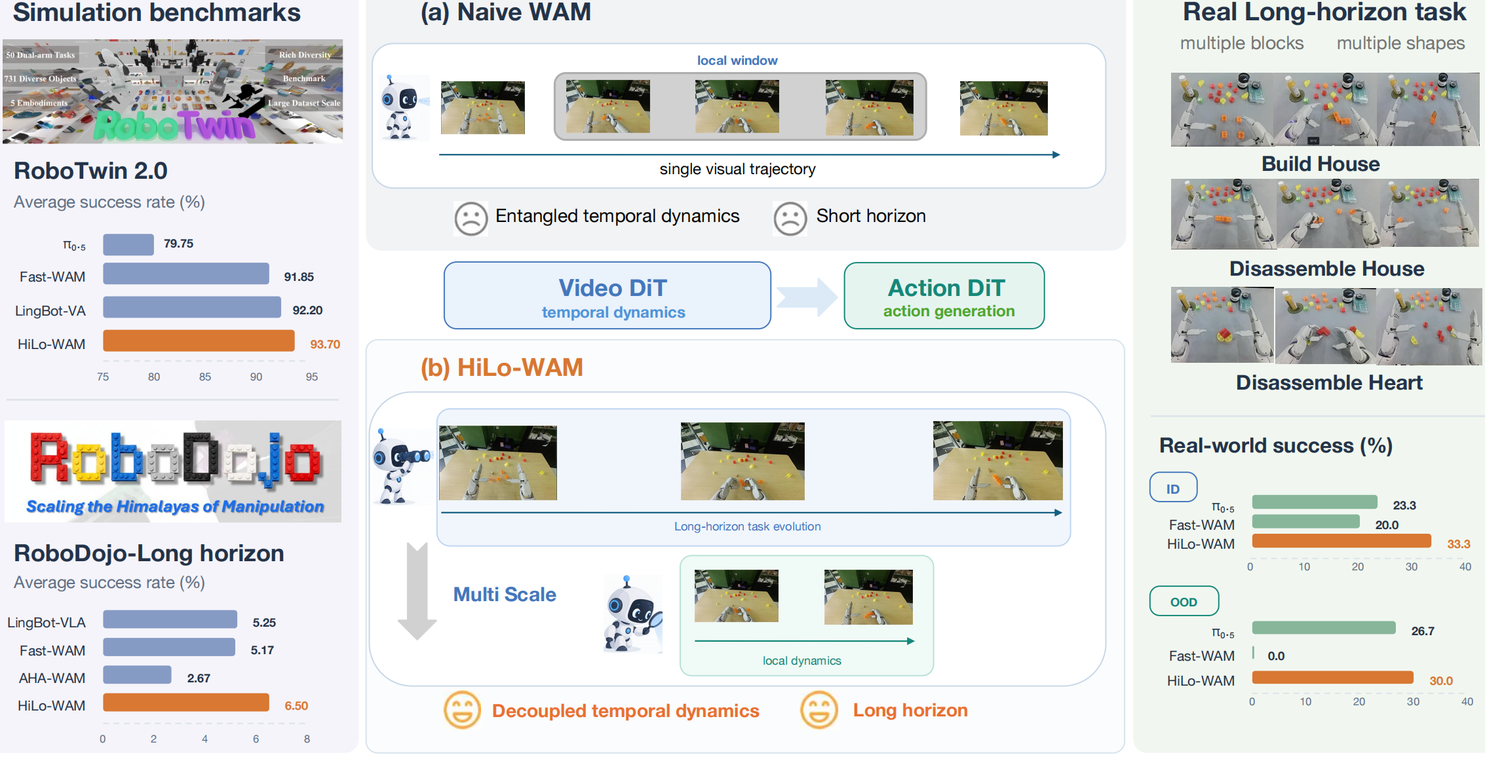
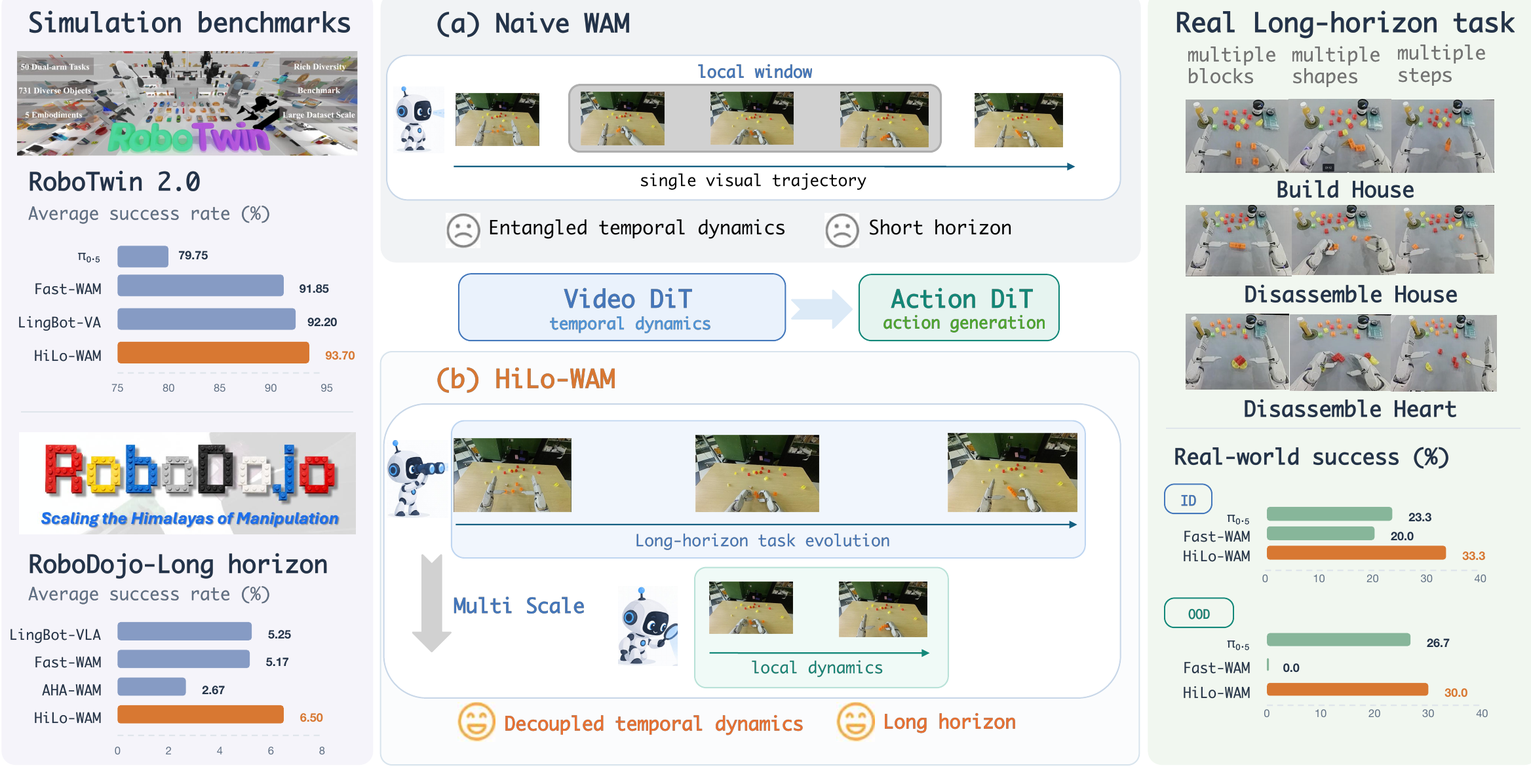
update infer

diff --git a/index.html b/index.html
@@ -10,9 +10,9 @@
   <meta property="og:description" content="Sparse task evolution and dense local dynamics jointly guide robot action generation.">
   <meta property="og:type" content="website">
   <title>HiLo-WAM | Long-Horizon Task Evolution and Local Dynamics</title>
-  <link rel="icon" href="static/images/favicon.svg">
-  <link rel="stylesheet" href="static/css/index.css">
-  <script src="static/js/index.js" defer></script>
+  <link rel="icon" href="static/images/favicon.svg?v=df3d6f5c767d66ca">
+  <link rel="stylesheet" href="static/css/index.css?v=68568327da32b6b1">
+  <script src="static/js/index.js?v=57dbd54a7239b131" defer></script>
 </head>
 <body>
 <a class="skip-link" href="#main">Skip to content</a>
@@ -30,26 +30,26 @@
   <div class="hero-actions"><a class="button primary" href="#real-videos">Robot demos</a><a class="button" href="#method">Method</a><!-- RELEASE_LINK --></div>
 </section>
 <section id="overview" class="overview" aria-label="Overview">
-  <p class="tldr"><strong>TL;DR</strong> HiLo-WAM decouples <strong>long-horizon task evolution</strong> from <strong>local visual dynamics</strong>. A sparse stream provides historical context and coarse future evolution; a dense stream captures fine-grained robot–object interactions. Together, they guide action generation.</p>
+  <p class="tldr"><strong>TL;DR</strong> HiLo-WAM decouples <strong>long-horizon task evolution</strong> from <strong>local visual dynamics</strong>. A sparse stream provides historical context and coarse future evolution; a dense stream captures fine-grained robot–object interactions. Together, they guide action generation; progressive inference reduces redundant computation.</p>
   <figure class="paper-figure teaser">
-<a href="static/figures/teaser.webp" data-lightbox aria-label="Enlarge: Overview of two visual streams, simulation benchmarks, and real-world manipulation"><img src="static/figures/teaser.webp" width="2266" height="1156" alt="Overview of two visual streams, simulation benchmarks, and real-world manipulation" loading="lazy" decoding="async"><span class="zoom-hint" aria-hidden="true">↗</span></a>
+<a href="static/figures/teaser.webp?v=840d4222c5db55aa" data-lightbox aria-label="Enlarge: Overview of two visual streams, simulation benchmarks, and real-world manipulation"><img src="static/figures/teaser.webp?v=840d4222c5db55aa" width="2336" height="1185" alt="Overview of two visual streams, simulation benchmarks, and real-world manipulation" loading="lazy" decoding="async"><span class="zoom-hint" aria-hidden="true">↗</span></a>
 <figcaption>Sparse task evolution + dense local dynamics → coordinated action generation.</figcaption></figure>
-  <div class="metrics"><p><strong>93.70%</strong><span>RoboTwin 2.0 success</span></p><p><strong>17.43</strong><span>RoboDojo progress score</span></p><p><strong>30%</strong><span>Real-robot OOD success</span></p></div>
+  <div class="metrics"><p><strong>93.70%</strong><span>RoboTwin 2.0 success</span></p><p><strong>17.43</strong><span>RoboDojo progress score</span></p><p><strong>2.93×</strong><span>Progressive inference speedup</span></p></div>
 </section>
 <section id="method" class="section">
   <h2>Two temporal scales, one coordinated policy</h2>
-  <p>HiLo-WAM decouples <strong>long-horizon task evolution</strong> and <strong>local visual dynamics</strong> within a shared Video DiT, coupled to an Action DiT. Three design choices make this decomposition useful for control.</p>
+  <p>HiLo-WAM decouples <strong>long-horizon task evolution</strong> and <strong>local visual dynamics</strong> within a shared Video DiT, coupled to an Action DiT. Multi-scale temporal modeling and structured cross-stream interaction coordinate both streams, while progressive inference reduces unnecessary computation.</p>
   <figure class="paper-figure framework">
-<a href="static/figures/framework.webp" data-lightbox aria-label="Enlarge: HiLo-WAM architecture and progressive stream-wise inference"><img src="static/figures/framework.webp" width="1826" height="1036" alt="HiLo-WAM architecture and progressive stream-wise inference" loading="lazy" decoding="async"><span class="zoom-hint" aria-hidden="true">↗</span></a>
-<figcaption>A unified dual-DiT architecture with two visual streams and progressive stream-wise inference.</figcaption></figure>
+<a href="static/figures/framework.webp?v=cd5c065762bef6aa" data-lightbox aria-label="Enlarge: HiLo-WAM multi-scale dual-DiT architecture"><img src="static/figures/framework.webp?v=cd5c065762bef6aa" width="2307" height="1321" alt="HiLo-WAM multi-scale dual-DiT architecture" loading="lazy" decoding="async"><span class="zoom-hint" aria-hidden="true">↗</span></a>
+<figcaption>Sparse long-horizon and dense local visual streams share a Video DiT and jointly guide the Action DiT.</figcaption></figure>
   <div class="contribution-grid">
-    <article><span class="contribution-number">01</span><h3>Decouple temporal roles</h3><p>Sparse history and future keyframes capture task evolution; dense short-horizon frames model fine-grained robot–object interactions.</p></article>
-    <article><span class="contribution-number">02</span><h3>Coordinate the streams</h3><p>Structured cross-stream attention lets historical context and near-future latents guide local dynamics and actions, while distant futures remain indirect.</p></article>
-    <article><span class="contribution-number">03</span><h3>Reuse visual computation</h3><p>Progressive stream-wise inference caches completed visual streams while actions continue to refine, reducing inference latency by <strong>27.5%</strong>.</p></article>
+    <article><span class="contribution-number">01</span><h3>Complementary temporal modeling</h3><p>Sparse history and future evolution capture long-horizon task progression; the dense local stream models fine-grained robot–object interactions for action generation.</p></article>
+    <article><span class="contribution-number">02</span><h3>Coordinated, efficient inference</h3><p>Structured cross-stream attention coordinates temporal scales. Partial denoising, joint denoising, and dynamic skipping reduce redundant computation.</p></article>
+    <article><span class="contribution-number">03</span><h3>Strong manipulation performance</h3><p>Simulation and real-robot evaluations validate complementary temporal information, the coverage–resolution trade-off, and <strong>2.93× faster inference</strong>.</p></article>
   </div>
   <details class="method-details"><summary>Attention mask, notation, and training details</summary><div class="attention-layout">
     <figure class="paper-figure ">
-<a href="static/figures/attention.webp" data-lightbox aria-label="Enlarge: Structured cross-stream attention mask"><img src="static/figures/attention.webp" width="498" height="514" alt="Structured cross-stream attention mask" loading="lazy" decoding="async"><span class="zoom-hint" aria-hidden="true">↗</span></a>
+<a href="static/figures/attention.webp?v=19dd354684c5cccf" data-lightbox aria-label="Enlarge: Structured cross-stream attention mask"><img src="static/figures/attention.webp?v=19dd354684c5cccf" width="659" height="667" alt="Structured cross-stream attention mask" loading="lazy" decoding="async"><span class="zoom-hint" aria-hidden="true">↗</span></a>
 <figcaption>Q: queries (rows). K: keys (columns). Colored cells allow attention.</figcaption></figure>
     <div><h3>Structured cross-stream attention</h3>
       <p>The long-horizon stream attends bidirectionally within itself. Local and action tokens access historical context and the nearest coarse future latent; distant future latents provide <strong>indirect guidance only</strong>. Actions also attend to local dynamics and robot state. Visual tokens do not attend to actions.</p>
@@ -63,7 +63,7 @@
       </dl>
     </div>
   </div>
-<div class="details-body"><p>Joint flow matching uses independently sampled flow times for the long-horizon, local, and action streams. Historical observations, the current observation, and robot state remain clean conditions.</p><p><strong>Reported configuration:</strong> Wan2.2-5B video backbone; stride <i>k</i> = 4; 8 historical and 8 future keyframes; video horizon <i>T</i> = 32; action horizon <i>H</i> = 32. Inference uses 5 / 5 / 10 steps for the long-horizon / local / action streams, within the general schedule n<sub>H</sub> ≤ n<sub>L</sub> ≤ n<sub>A</sub>.</p></div></details>
+<div class="details-body"><p>Joint flow matching uses independently sampled flow times for the long-horizon, local, and action streams. Historical observations, the current observation, and robot state remain clean conditions.</p><p><strong>Reported configuration:</strong> Wan2.2-5B video backbone; stride <i>k</i> = 4; 8 historical and 8 future keyframes; video horizon <i>T</i> = 32; action horizon <i>H</i> = 32. Progressive inference uses 5 / 5 / 10 denoising budgets for long-horizon / local / action streams, starts the streams jointly, and skips redundant DiT evaluations when consecutive velocity predictions are sufficiently similar. The action stream retains its full 10-step schedule.</p></div></details>
 </section>
 <section id="results" class="section" data-tabs>
   <h2>Experimental results</h2>
@@ -71,12 +71,12 @@
   <div class="section-tabs" data-tab-list aria-label="Experimental evidence" hidden>
     <button type="button" data-tab="benchmarks" id="tab-benchmarks">Simulation benchmarks</button>
     <button type="button" data-tab="analysis" id="tab-analysis">Ablations &amp; visual analysis</button>
-    <button type="button" data-tab="efficiency" id="tab-efficiency">Inference efficiency</button>
+    <button type="button" data-tab="efficiency" id="tab-efficiency">Progressive inference</button>
   </div>
   <div id="benchmarks" data-tab-panel>
     <div class="two-column benchmarks"><article><h3>RoboTwin 2.0</h3><div class="table-scroll" tabindex="0" role="region" aria-label="RoboTwin 2.0 results"><table class=""><caption>RoboTwin 2.0 · Success rate (%)</caption><thead><tr><th scope="col">Method</th><th scope="col">Embodied<br>pretraining</th><th scope="col">Clean</th><th scope="col">Rand.</th><th scope="col">Avg.</th></tr></thead><tbody><tr><th scope="row">π₀</th><td>Yes</td><td>65.90</td><td>58.40</td><td>62.15</td></tr><tr><th scope="row">X-VLA</th><td>Yes</td><td>72.90</td><td>72.80</td><td>72.85</td></tr><tr><th scope="row">π₀.₅</th><td>Yes</td><td>82.70</td><td>76.80</td><td>79.75</td></tr><tr><th scope="row">StarVLA</th><td>No</td><td>88.20</td><td>88.30</td><td>88.25</td></tr><tr><th scope="row">ABot-M0</th><td>Yes</td><td>81.20</td><td>80.40</td><td>80.80</td></tr><tr><th scope="row">LingBot-VLA</th><td>Yes</td><td>86.50</td><td>85.30</td><td>85.90</td></tr><tr><th scope="row">JEPA-VLA</th><td>No</td><td>73.50</td><td>—</td><td>—</td></tr><tr><th scope="row">Motus</th><td>Yes</td><td>88.70</td><td>87.00</td><td>87.85</td></tr><tr><th scope="row">LingBot-VA</th><td>Yes</td><td>92.90</td><td>91.50</td><td>92.20</td></tr><tr><th scope="row">Fast-WAM</th><td>No</td><td>91.90</td><td>91.80</td><td>91.85</td></tr><tr><th scope="row">Being-H0.7</th><td>Yes</td><td>90.20</td><td>89.60</td><td>89.90</td></tr><tr><th scope="row">AHA-WAM</th><td>No</td><td>93.40</td><td>92.20</td><td>92.80</td></tr><tr class="ours"><th scope="row">HiLo-WAM</th><td>No</td><td>93.87</td><td>93.52</td><td>93.70</td></tr></tbody></table></div><p class="note">50 bimanual tasks; 50 trials per task in each setting. “Embodied pretraining” refers to robot/action pretraining.</p></article><article><h3>RoboDojo</h3><div class="table-scroll" tabindex="0" role="region" aria-label="RoboDojo results"><table class=""><caption>RoboDojo · Long-horizon evaluation</caption><thead><tr><th scope="col">Method</th><th scope="col">Score ↑</th><th scope="col">Success (%) ↑</th></tr></thead><tbody><tr><th scope="row">OpenVLA-OFT</th><td>0.70</td><td>0.00</td></tr><tr><th scope="row">RDT</th><td>1.13</td><td>0.00</td></tr><tr><th scope="row">LDA-1B</th><td>1.98</td><td>0.08</td></tr><tr><th scope="row">H-RDT</th><td>2.23</td><td>0.17</td></tr><tr><th scope="row">π₀</th><td>6.19</td><td>2.00</td></tr><tr><th scope="row">GROOT-N1.7</th><td>8.30</td><td>3.58</td></tr><tr><th scope="row">LingBot-VLA</th><td>10.89</td><td>5.25</td></tr><tr><th scope="row">StarVLA</th><td>14.15</td><td>6.50</td></tr><tr><th scope="row">StarVLA-OFT</th><td>14.28</td><td>6.17</td></tr><tr><th scope="row">AHA-WAM</th><td>8.61</td><td>2.67</td></tr><tr><th scope="row">Fast-WAM</th><td>9.14</td><td>5.17</td></tr><tr class="ours"><th scope="row">HiLo-WAM</th><td>17.43</td><td>6.50</td></tr></tbody></table></div><p class="note">8 long-horizon tasks; 50 trials per task. Progress measures partial completion. The 6.50% full-task success rate ties the highest result among these comparisons.</p></article></div>
   <details><summary>Qualitative rollouts: target consistency and final alignment</summary><div class="details-body"><figure class="paper-figure ">
-<a href="static/figures/performance.webp" data-lightbox aria-label="Enlarge: Fast-WAM and HiLo-WAM rollouts for bottle disposal, mug hanging, and house assembly"><img src="static/figures/performance.webp" width="2202" height="1371" alt="Fast-WAM and HiLo-WAM rollouts for bottle disposal, mug hanging, and house assembly" loading="lazy" decoding="async"><span class="zoom-hint" aria-hidden="true">↗</span></a>
+<a href="static/figures/performance.webp?v=a43ced5c42e7e29c" data-lightbox aria-label="Enlarge: Fast-WAM and HiLo-WAM rollouts for bottle disposal, mug hanging, and house assembly"><img src="static/figures/performance.webp?v=a43ced5c42e7e29c" width="2054" height="1402" alt="Fast-WAM and HiLo-WAM rollouts for bottle disposal, mug hanging, and house assembly" loading="lazy" decoding="async"><span class="zoom-hint" aria-hidden="true">↗</span></a>
 <figcaption>Example rollouts show more consistent target selection and precise final alignment with HiLo-WAM.</figcaption></figure></div></details>
 
   </div>
@@ -90,48 +90,64 @@
         <p class="axis-note">Zoomed scale: 90–94%; bars start at 90%.</p>
       </div>
       <figure class="paper-figure attention-evidence">
-<a href="static/figures/attention_vis.webp" data-lightbox aria-label="Enlarge: Cross-stream attention on Stack Bowls Three"><img src="static/figures/attention_vis.webp" width="1494" height="1046" alt="Cross-stream attention on Stack Bowls Three" loading="lazy" decoding="async"><span class="zoom-hint" aria-hidden="true">↗</span></a>
+<a href="static/figures/attention_vis.webp?v=f676b5a4375fe494" data-lightbox aria-label="Enlarge: Cross-stream attention on Stack Bowls Three"><img src="static/figures/attention_vis.webp?v=f676b5a4375fe494" width="1520" height="1073" alt="Cross-stream attention on Stack Bowls Three" loading="lazy" decoding="async"><span class="zoom-hint" aria-hidden="true">↗</span></a>
 <figcaption><strong>Complementary attention.</strong> Long-horizon context tracks robot and object positions; local dynamics captures fine-grained interactions.</figcaption></figure>
     </div>
     <p class="note ablation-footnote">¹ History remains inside the long-horizon stream for future prediction; only direct access from local/action tokens is masked.</p>
     <div class="supporting-evidence">
       <figure class="paper-figure ">
-<a href="static/figures/video_predict.webp" data-lightbox aria-label="Enlarge: Ground truth and Place Can Basket predictions with and without long-horizon guidance"><img src="static/figures/video_predict.webp" width="1495" height="562" alt="Ground truth and Place Can Basket predictions with and without long-horizon guidance" loading="lazy" decoding="async"><span class="zoom-hint" aria-hidden="true">↗</span></a>
+<a href="static/figures/video_predict.webp?v=e9b1963449c3cb45" data-lightbox aria-label="Enlarge: Ground truth and Place Can Basket predictions with and without long-horizon guidance"><img src="static/figures/video_predict.webp?v=e9b1963449c3cb45" width="1522" height="605" alt="Ground truth and Place Can Basket predictions with and without long-horizon guidance" loading="lazy" decoding="async"><span class="zoom-hint" aria-hidden="true">↗</span></a>
 <figcaption><strong>Task-directed prediction.</strong> Long-horizon grasp-to-place evolution guides the local grasp on <em>Place Can Basket</em>.</figcaption></figure>
       <figure class="paper-figure ">
-<a href="static/figures/temporal_scale.webp" data-lightbox aria-label="Enlarge: RoboTwin success rates at strides 1, 2, 4, and 8"><img src="static/figures/temporal_scale.webp" width="1396" height="954" alt="RoboTwin success rates at strides 1, 2, 4, and 8" loading="lazy" decoding="async"><span class="zoom-hint" aria-hidden="true">↗</span></a>
+<a href="static/figures/temporal_scale.webp?v=840ca08cf98324ed" data-lightbox aria-label="Enlarge: RoboTwin success rates at strides 1, 2, 4, and 8"><img src="static/figures/temporal_scale.webp?v=840ca08cf98324ed" width="2354" height="1607" alt="RoboTwin success rates at strides 1, 2, 4, and 8" loading="lazy" decoding="async"><span class="zoom-hint" aria-hidden="true">↗</span></a>
 <figcaption><strong>Coverage–resolution balance.</strong> At a fixed token budget, stride k = 4 performs best (93.7%).</figcaption></figure>
     </div>
   </div>
   <div id="efficiency" data-tab-panel>
-    <div class="efficiency-summary"><div><h3>Less visual computation, comparable success</h3><p>Coordinated denoising reduces latency by <strong>27.5%</strong> versus sequential inference with the <strong>same per-stream step budgets</strong>; success remains comparable (93.64% → 93.70%).</p><p class="note">Completed visual features are cached while action refinement continues. Real-Time Chunking further overlaps inference with execution on the robot.</p></div><div><div class="table-scroll" tabindex="0" role="region" aria-label="Action-chunk inference · RoboTwin 2.0"><table><caption>Action-chunk inference · RoboTwin 2.0</caption><thead><tr><th scope="col">Method</th><th scope="col">Latency (ms) ↓</th><th scope="col">Frequency (Hz) ↑</th><th scope="col">SR (%) ↑</th></tr></thead><tbody><tr><th scope="row">π₀.₅</th><td>110</td><td>9.09</td><td>79.75</td></tr><tr><th scope="row">Fast-WAM</th><td>182</td><td>5.49</td><td>91.85</td></tr><tr><th scope="row">HiLo-WAM w/o Prog.</th><td>404</td><td>2.48</td><td>93.64</td></tr><tr class="ours"><th scope="row">HiLo-WAM</th><td>293</td><td>3.41</td><td>93.70</td></tr></tbody></table></div></div></div>
-    <p class="note">End-to-end action-chunk latency includes the video VAE and both DiTs, with prompt embeddings reused. HiLo-WAM remains slower than Fast-WAM.</p>
+    <div class="evidence-heading"><h3>2.93× faster inference, with improved success</h3><p>Three complementary strategies reduce action-chunk latency from <strong>1114.46 to 380.02 ms</strong>, while RoboTwin 2.0 success improves from <strong>93.54% to 93.70%</strong>.</p></div>
+    <div class="progressive-layout">
+      <ol class="inference-strategies">
+        <li><strong>Partial denoising</strong><p>Stop each visual stream at its budget and cache its features; keep the full action denoising schedule.</p></li>
+        <li><strong>Joint denoising</strong><p>Start all streams together so visual and action representations interact at aligned denoising stages.</p></li>
+        <li><strong>Dynamic skipping</strong><p>Reuse sufficiently similar consecutive velocity predictions to skip redundant DiT evaluations.</p></li>
+      </ol>
+      <div class="latency-chart" role="group" aria-label="Progressive inference latency ablation, milliseconds; lower is better">
+        <p class="chart-label">Action-chunk latency · Lower is better</p>
+        <ol class="latency-bars"><li class="latency-row "><div class="bar-label"><span>Baseline</span><strong>1114.46 <small>ms</small></strong></div><div class="bar-track" aria-hidden="true"><span style="--bar-width:92.8717%"></span></div></li><li class="latency-row "><div class="bar-label"><span>+ Partial denoising</span><strong>723.65 <small>ms</small></strong></div><div class="bar-track" aria-hidden="true"><span style="--bar-width:60.3042%"></span></div></li><li class="latency-row "><div class="bar-label"><span>+ Joint denoising</span><strong>619.85 <small>ms</small></strong></div><div class="bar-track" aria-hidden="true"><span style="--bar-width:51.6542%"></span></div></li><li class="latency-row best"><div class="bar-label"><span>+ Dynamic skipping</span><strong>380.02 <small>ms</small></strong></div><div class="bar-track" aria-hidden="true"><span style="--bar-width:31.6683%"></span></div></li></ol>
+        <div class="bar-axis" aria-hidden="true"><span>0</span><span>300</span><span>600</span><span>900</span><span>1200 ms</span></div>
+      </div>
+    </div>
+    <div class="table-scroll" tabindex="0" role="region" aria-label="Progressive inference configurations and results"><table class="progressive-table"><caption>RoboTwin 2.0 · Cumulative inference ablations</caption><thead><tr><th scope="col">Configuration</th><th scope="col">n<sub>H</sub> / n<sub>L</sub></th><th scope="col">Joint</th><th scope="col">Skipping</th><th scope="col">Latency (ms) ↓</th><th scope="col">Speedup ↑</th><th scope="col">SR (%) ↑</th></tr></thead><tbody><tr><th scope="row">Baseline</th><td>10 / 10</td><td>No</td><td>No</td><td>1114.46</td><td>1.00×</td><td>93.54</td></tr><tr><th scope="row">+ Partial denoising</th><td>5 / 5</td><td>No</td><td>No</td><td>723.65</td><td>1.54×</td><td>93.62</td></tr><tr><th scope="row">+ Joint denoising</th><td>5 / 5</td><td>Yes</td><td>No</td><td>619.85</td><td>1.80×</td><td>93.70</td></tr><tr class="ours"><th scope="row">+ Dynamic skipping</th><td>5 / 5</td><td>Yes</td><td>Yes</td><td>380.02</td><td>2.93×</td><td>93.70</td></tr></tbody></table></div>
+    <p class="note inference-note">Single NVIDIA RTX PRO 5000; steady-state action-chunk inference with cached prompt embeddings. Timing includes video VAE processing and both DiTs. n<sub>A</sub> = 10 throughout; without joint denoising, streams run sequentially and cache their features. Speedup is relative to the 10 / 10 sequential baseline.</p>
   </div>
 </section>
 <section id="real-world" class="section">
   <h2>Real-world manipulation</h2>
   <p>We evaluate three bimanual tasks on <strong>Fourier GR-3</strong>: Build House, Disassemble House, and Disassemble Heart.</p>
-  <div class="scene-pair"><figure><a href="static/figures/robot-id.webp" data-lightbox aria-label="Enlarge: In-domain robot setup"><img src="static/figures/robot-id.webp" width="900" height="1200" alt="Complete in-domain Fourier GR-3 setup" loading="lazy"></a><figcaption>In-domain (ID)</figcaption></figure><figure><a href="static/figures/robot-ood.webp" data-lightbox aria-label="Enlarge: Out-of-distribution robot setup"><img src="static/figures/robot-ood.webp" width="900" height="1200" alt="Complete out-of-distribution Fourier GR-3 setup" loading="lazy"></a><figcaption>Out-of-distribution (OOD)</figcaption></figure></div>
+  <div class="scene-pair"><figure><a href="static/figures/robot-id.webp?v=f1c7026f383da244" data-lightbox aria-label="Enlarge: In-domain robot setup"><img src="static/figures/robot-id.webp?v=f1c7026f383da244" width="900" height="1200" alt="Complete in-domain Fourier GR-3 setup" loading="lazy"></a><figcaption>In-domain (ID)</figcaption></figure><figure><a href="static/figures/robot-ood.webp?v=30a51ac1ada7c2a0" data-lightbox aria-label="Enlarge: Out-of-distribution robot setup"><img src="static/figures/robot-ood.webp?v=30a51ac1ada7c2a0" width="900" height="1200" alt="Complete out-of-distribution Fourier GR-3 setup" loading="lazy"></a><figcaption>Out-of-distribution (OOD)</figcaption></figure></div>
   <p>OOD evaluation changes lighting, tabletop background, and clutter. Each task uses 10 trials per setting, with a <strong>0–10 progress score</strong> and separate full-task success rate. HiLo-WAM achieves the highest average progress and success among the three compared models: <strong>6.9 / 33% in-domain</strong> and <strong>6.0 / 30% OOD</strong>.</p>
   <figure class="paper-figure real-results">
-<a href="static/figures/real_world.webp" data-lightbox aria-label="Enlarge: Progress scores and success rates of three models on three real-world tasks in ID and OOD settings"><img src="static/figures/real_world.webp" width="1720" height="525" alt="Progress scores and success rates of three models on three real-world tasks in ID and OOD settings" loading="lazy" decoding="async"><span class="zoom-hint" aria-hidden="true">↗</span></a>
+<a href="static/figures/real_world.webp?v=5174bf412292e450" data-lightbox aria-label="Enlarge: Progress scores and success rates of three models on three real-world tasks in ID and OOD settings"><img src="static/figures/real_world.webp?v=5174bf412292e450" width="2176" height="685" alt="Progress scores and success rates of three models on three real-world tasks in ID and OOD settings" loading="lazy" decoding="async"><span class="zoom-hint" aria-hidden="true">↗</span></a>
 <figcaption>Success rate (top) and progress score (bottom). Values follow the rounded results reported in the paper.</figcaption></figure>
+  <figure class="paper-figure task-progression">
+<a href="static/figures/task.webp?v=816bd81cf3aff100" data-lightbox aria-label="Enlarge: Build House and Disassemble House task progressions"><img src="static/figures/task.webp?v=816bd81cf3aff100" width="2122" height="762" alt="Build House progresses through forming a block line, attaching the triangular block, lifting, and replacing the structure. Disassemble House separates the structure on the left and right before final placement." loading="lazy" decoding="async"><span class="zoom-hint" aria-hidden="true">↗</span></a>
+<figcaption><strong>Multi-stage manipulation.</strong> Build House assembles, lifts, and replaces a structure; Disassemble House separates its components.</figcaption></figure>
   <div id="real-videos" class="video-section" data-tabs><div class="video-toolbar"><div><h3>Robot rollouts</h3><p class="note">Select a task to compare the three policies.</p></div><div class="speed-panel" role="group" aria-label="Playback speed"><span>Speed</span><button type="button" data-speed="1" aria-pressed="true">1×</button><button type="button" data-speed="2" aria-pressed="false">2×</button><button type="button" data-speed="3" aria-pressed="false">3×</button></div></div>
   <div class="section-tabs task-tabs" data-tab-list aria-label="Robot demonstration task" hidden>
 <button type="button" data-tab="demo-build_house" id="tab-build_house">Build House</button>
 <button type="button" data-tab="demo-disassemble_house" id="tab-disassemble_house">Disassemble House</button>
 <button type="button" data-tab="demo-disassemble_heart" id="tab-disassemble_heart">Disassemble Heart</button>
 </div>
-<section class="video-task-row" aria-labelledby="build_house" id="demo-build_house" data-tab-panel><div class="task-heading"><h4 id="build_house">Build House</h4><div class="row-controls"><button type="button" data-play-row>Play row</button><button type="button" data-pause-row>Pause row</button></div></div><p class="task-description">Align and connect the blocks, then lift and place the assembled structure.</p><div class="video-grid"><figure class="video-card "><figcaption>π₀.₅</figcaption>
-<video controls muted playsinline preload="none" poster="static/posters/build_house_pi05.jpg" aria-label="Build House — π₀.₅"><source src="videos/build_house_pi05.mp4" type="video/mp4">Your browser does not support video. <a href="videos/build_house_pi05.mp4">Download rollout</a>.</video></figure><figure class="video-card "><figcaption>Fast-WAM</figcaption>
-<video controls muted playsinline preload="none" poster="static/posters/build_house_fastwam.jpg" aria-label="Build House — Fast-WAM"><source src="videos/build_house_fastwam.mp4" type="video/mp4">Your browser does not support video. <a href="videos/build_house_fastwam.mp4">Download rollout</a>.</video></figure><figure class="video-card ours"><figcaption>HiLo-WAM</figcaption>
-<video controls muted playsinline preload="none" poster="static/posters/build_house_hilowam.jpg" aria-label="Build House — HiLo-WAM"><source src="videos/build_house_hilowam.mp4" type="video/mp4">Your browser does not support video. <a href="videos/build_house_hilowam.mp4">Download rollout</a>.</video></figure></div></section><section class="video-task-row" aria-labelledby="disassemble_house" id="demo-disassemble_house" data-tab-panel><div class="task-heading"><h4 id="disassemble_house">Disassemble House</h4><div class="row-controls"><button type="button" data-play-row>Play row</button><button type="button" data-pause-row>Pause row</button></div></div><p class="task-description">Separate the structure and place its components in the designated regions.</p><div class="video-grid"><figure class="video-card "><figcaption>π₀.₅</figcaption>
-<video controls muted playsinline preload="none" poster="static/posters/disassemble_house_pi05.jpg" aria-label="Disassemble House — π₀.₅"><source src="videos/disassemble_house_pi05.mp4" type="video/mp4">Your browser does not support video. <a href="videos/disassemble_house_pi05.mp4">Download rollout</a>.</video></figure><figure class="video-card "><figcaption>Fast-WAM</figcaption>
-<video controls muted playsinline preload="none" poster="static/posters/disassemble_house_fastwam.jpg" aria-label="Disassemble House — Fast-WAM"><source src="videos/disassemble_house_fastwam.mp4" type="video/mp4">Your browser does not support video. <a href="videos/disassemble_house_fastwam.mp4">Download rollout</a>.</video></figure><figure class="video-card ours"><figcaption>HiLo-WAM</figcaption>
-<video controls muted playsinline preload="none" poster="static/posters/disassemble_house_hilowam.jpg" aria-label="Disassemble House — HiLo-WAM"><source src="videos/disassemble_house_hilowam.mp4" type="video/mp4">Your browser does not support video. <a href="videos/disassemble_house_hilowam.mp4">Download rollout</a>.</video></figure></div></section><section class="video-task-row" aria-labelledby="disassemble_heart" id="demo-disassemble_heart" data-tab-panel><div class="task-heading"><h4 id="disassemble_heart">Disassemble Heart</h4><div class="row-controls"><button type="button" data-play-row>Play row</button><button type="button" data-pause-row>Pause row</button></div></div><p class="task-description">Remove the yellow blocks, then separate the remaining red structure.</p><div class="video-grid"><figure class="video-card "><figcaption>π₀.₅</figcaption>
-<video controls muted playsinline preload="none" poster="static/posters/disassemble_heart_pi05.jpg" aria-label="Disassemble Heart — π₀.₅"><source src="videos/disassemble_heart_pi05.mp4" type="video/mp4">Your browser does not support video. <a href="videos/disassemble_heart_pi05.mp4">Download rollout</a>.</video></figure><figure class="video-card "><figcaption>Fast-WAM</figcaption>
-<video controls muted playsinline preload="none" poster="static/posters/disassemble_heart_fastwam.jpg" aria-label="Disassemble Heart — Fast-WAM"><source src="videos/disassemble_heart_fastwam.mp4" type="video/mp4">Your browser does not support video. <a href="videos/disassemble_heart_fastwam.mp4">Download rollout</a>.</video></figure><figure class="video-card ours"><figcaption>HiLo-WAM</figcaption>
-<video controls muted playsinline preload="none" poster="static/posters/disassemble_heart_hilowam.jpg" aria-label="Disassemble Heart — HiLo-WAM"><source src="videos/disassemble_heart_hilowam.mp4" type="video/mp4">Your browser does not support video. <a href="videos/disassemble_heart_hilowam.mp4">Download rollout</a>.</video></figure></div></section>
+<section class="video-task-row" aria-labelledby="build_house" id="demo-build_house" data-tab-panel><div class="task-heading"><h4 id="build_house">Build House</h4><div class="row-controls"><button type="button" data-play-row>Play row</button><button type="button" data-pause-row>Pause row</button></div></div><p class="task-description">Form the block line, connect the triangular block, then lift and replace the assembled structure.</p><div class="video-grid"><figure class="video-card "><figcaption>π₀.₅</figcaption>
+<video controls muted playsinline preload="none" poster="static/posters/build_house_pi05.jpg?v=f44222b077d73a08" aria-label="Build House — π₀.₅"><source src="videos/build_house_pi05.mp4?v=501fd8a521c9059a" type="video/mp4">Your browser does not support video. <a href="videos/build_house_pi05.mp4?v=501fd8a521c9059a">Download rollout</a>.</video></figure><figure class="video-card "><figcaption>Fast-WAM</figcaption>
+<video controls muted playsinline preload="none" poster="static/posters/build_house_fastwam.jpg?v=720110063c33c6fb" aria-label="Build House — Fast-WAM"><source src="videos/build_house_fastwam.mp4?v=011387cfcc8ce82d" type="video/mp4">Your browser does not support video. <a href="videos/build_house_fastwam.mp4?v=011387cfcc8ce82d">Download rollout</a>.</video></figure><figure class="video-card ours"><figcaption>HiLo-WAM</figcaption>
+<video controls muted playsinline preload="none" poster="static/posters/build_house_hilowam.jpg?v=d19ede909e5228dd" aria-label="Build House — HiLo-WAM"><source src="videos/build_house_hilowam.mp4?v=74c53f577eead3d7" type="video/mp4">Your browser does not support video. <a href="videos/build_house_hilowam.mp4?v=74c53f577eead3d7">Download rollout</a>.</video></figure></div></section><section class="video-task-row" aria-labelledby="disassemble_house" id="demo-disassemble_house" data-tab-panel><div class="task-heading"><h4 id="disassemble_house">Disassemble House</h4><div class="row-controls"><button type="button" data-play-row>Play row</button><button type="button" data-pause-row>Pause row</button></div></div><p class="task-description">Transfer the structure between hands, separate its components, and place them in the left and right regions.</p><div class="video-grid"><figure class="video-card "><figcaption>π₀.₅</figcaption>
+<video controls muted playsinline preload="none" poster="static/posters/disassemble_house_pi05.jpg?v=d928665eb82d44e0" aria-label="Disassemble House — π₀.₅"><source src="videos/disassemble_house_pi05.mp4?v=70c026b5cc53118c" type="video/mp4">Your browser does not support video. <a href="videos/disassemble_house_pi05.mp4?v=70c026b5cc53118c">Download rollout</a>.</video></figure><figure class="video-card "><figcaption>Fast-WAM</figcaption>
+<video controls muted playsinline preload="none" poster="static/posters/disassemble_house_fastwam.jpg?v=0c2caf65140400fb" aria-label="Disassemble House — Fast-WAM"><source src="videos/disassemble_house_fastwam.mp4?v=d95f083ae475e608" type="video/mp4">Your browser does not support video. <a href="videos/disassemble_house_fastwam.mp4?v=d95f083ae475e608">Download rollout</a>.</video></figure><figure class="video-card ours"><figcaption>HiLo-WAM</figcaption>
+<video controls muted playsinline preload="none" poster="static/posters/disassemble_house_hilowam.jpg?v=fd69529599f0c834" aria-label="Disassemble House — HiLo-WAM"><source src="videos/disassemble_house_hilowam.mp4?v=c48f4cb9a9dc6af3" type="video/mp4">Your browser does not support video. <a href="videos/disassemble_house_hilowam.mp4?v=c48f4cb9a9dc6af3">Download rollout</a>.</video></figure></div></section><section class="video-task-row" aria-labelledby="disassemble_heart" id="demo-disassemble_heart" data-tab-panel><div class="task-heading"><h4 id="disassemble_heart">Disassemble Heart</h4><div class="row-controls"><button type="button" data-play-row>Play row</button><button type="button" data-pause-row>Pause row</button></div></div><p class="task-description">Remove the yellow blocks, then separate the remaining red structure.</p><div class="video-grid"><figure class="video-card "><figcaption>π₀.₅</figcaption>
+<video controls muted playsinline preload="none" poster="static/posters/disassemble_heart_pi05.jpg?v=9239bf90c33a3dbd" aria-label="Disassemble Heart — π₀.₅"><source src="videos/disassemble_heart_pi05.mp4?v=d515af4606e8ef0f" type="video/mp4">Your browser does not support video. <a href="videos/disassemble_heart_pi05.mp4?v=d515af4606e8ef0f">Download rollout</a>.</video></figure><figure class="video-card "><figcaption>Fast-WAM</figcaption>
+<video controls muted playsinline preload="none" poster="static/posters/disassemble_heart_fastwam.jpg?v=25a7fffbf5f4a6b7" aria-label="Disassemble Heart — Fast-WAM"><source src="videos/disassemble_heart_fastwam.mp4?v=dc6d8959b46cd8d2" type="video/mp4">Your browser does not support video. <a href="videos/disassemble_heart_fastwam.mp4?v=dc6d8959b46cd8d2">Download rollout</a>.</video></figure><figure class="video-card ours"><figcaption>HiLo-WAM</figcaption>
+<video controls muted playsinline preload="none" poster="static/posters/disassemble_heart_hilowam.jpg?v=bdef87b3d40a2bfc" aria-label="Disassemble Heart — HiLo-WAM"><source src="videos/disassemble_heart_hilowam.mp4?v=da1b1e80287994e5" type="video/mp4">Your browser does not support video. <a href="videos/disassemble_heart_hilowam.mp4?v=da1b1e80287994e5">Download rollout</a>.</video></figure></div></section>
   <p id="videoStatus" class="status-message" role="status" aria-live="polite"></p></div>
 </section>
 <details><summary>Limitations</summary><div class="details-body"><p>Performance remains bounded by the video backbone’s semantic understanding and predictive capability. Explicit subtask decomposition, progress estimation, and higher-level reasoning remain challenging.</p></div></details>

diff --git a/static/css/index.css b/static/css/index.css
@@ -170,7 +170,7 @@ body:has(dialog[open]) { overflow: hidden; }
 .evidence-heading h3 { font-size: 20px; }
 .evidence-heading p { font-size: 14px; max-width: 900px; }
 .evidence-grid { display: grid; grid-template-columns: 1fr 1fr; gap: 30px; align-items: center; padding: 18px 0 8px; }
-.evidence-grid > *, .supporting-evidence > *, .efficiency-summary > * { min-width: 0; }
+.evidence-grid > *, .supporting-evidence > *, .progressive-layout > * { min-width: 0; }
 .chart-label { color: var(--muted); font-size: 12px; margin-bottom: 14px; }
 .ablation-bars { list-style: none; padding: 0; margin: 0; display: grid; gap: 15px; }
 .bar-label { display: flex; align-items: baseline; justify-content: space-between; gap: 8px; margin-bottom: 7px; font-size: 13px; }
@@ -187,18 +187,13 @@ body:has(dialog[open]) { overflow: hidden; }
 .supporting-evidence { display: grid; grid-template-columns: 1.9fr 1fr; align-items: center; gap: 28px; border-top: 1px solid var(--line); margin-top: 20px; padding-top: 20px; }
 .supporting-evidence .paper-figure { margin: 0; }
 .supporting-evidence figcaption, .evidence-grid figcaption { text-align: left; font-size: 12px; }
-.efficiency-summary { display: grid; grid-template-columns: .85fr 1.15fr; align-items: center; gap: 28px; padding-block: 16px; }
-.efficiency-summary p { font-size: 14px; }
-.efficiency-summary .note { font-size: 12px; }
-.efficiency-summary table { font-size: 11px; }
-.efficiency-summary th, .efficiency-summary td { padding-inline: 6px; }
 .task-tabs { margin-bottom: 10px; }
 .video-task-row[role="tabpanel"] { margin-top: 12px; }
 @media (max-width: 760px) {
   .contribution-grid { grid-template-columns: 1fr; gap: 14px; }
   .contribution-grid article { padding-top: 8px; }
   .contribution-number { float: left; margin: 7px 10px 0 0; }
-  .evidence-grid, .supporting-evidence, .efficiency-summary { grid-template-columns: 1fr; gap: 22px; }
+  .evidence-grid, .supporting-evidence, .progressive-layout { grid-template-columns: 1fr; gap: 22px; }
   .attention-evidence { max-width: 440px; }
   .attention-evidence img { max-height: none; }
   .supporting-evidence .paper-figure:last-child { max-width: 340px; margin: 0 auto; }
@@ -209,4 +204,23 @@ body:has(dialog[open]) { overflow: hidden; }
 
 @media (prefers-reduced-motion: reduce) {
   html { scroll-behavior: auto; }
+}
+
+/* Progressive inference combines mechanism and cumulative experimental evidence. */
+.progressive-layout { display: grid; grid-template-columns: .85fr 1.15fr; gap: 36px; align-items: center; margin: 24px 0; }
+.inference-strategies { list-style: none; padding: 0; margin: 0; counter-reset: strategy; }
+.inference-strategies li { counter-increment: strategy; padding-left: 28px; position: relative; margin-bottom: 16px; }
+.inference-strategies li:last-child { margin-bottom: 0; }
+.inference-strategies li::before { content: counter(strategy, decimal-leading-zero); position: absolute; left: 0; top: 2px; font-size: 11px; color: var(--accent); font-weight: 700; }
+.inference-strategies strong { font-size: 14px; }
+.inference-strategies p { font-size: 13px; margin: 4px 0 0; }
+.latency-bars { list-style: none; margin: 0; padding: 0; display: grid; gap: 16px; }
+.latency-row.best .bar-track > span { background: linear-gradient(90deg, #4c847b, #2c7160); }
+.latency-row.best .bar-label { color: #24594d; font-weight: 650; }
+.latency-row small { font-size: 11px; font-weight: 400; }
+.inference-note { margin-top: 12px; }
+.task-progression { max-width: 980px; margin-block: 25px; }
+@media (max-width: 760px) {
+  .progressive-layout { grid-template-columns: 1fr; gap: 24px; }
+  .progressive-table { font-size: 11px; }
 }

diff --git a/scripts/build_site.py b/scripts/build_site.py
@@ -1,7 +1,9 @@
 """Package only referenced website files; never copy Git history or source documents."""
 from html.parser import HTMLParser
 from pathlib import Path
-from urllib.parse import unquote, urlsplit
+from urllib.parse import parse_qsl, unquote, urlencode, urlsplit, urlunsplit
+import hashlib
+import re
 import shutil
 
 ROOT = Path(__file__).resolve().parents[1]
@@ -25,6 +27,36 @@ class Assets(HTMLParser):
                 self.references.add(unquote(url.path))
 
 
+def version_assets(html, root):
+    """Use content-derived URLs so cached assets cannot outlive their HTML version."""
+    root = root.resolve()
+    versions = {}
+
+    def replace(match):
+        url = urlsplit(match['url'])
+        if url.scheme or url.netloc or not url.path:
+            return match.group()
+        relative = unquote(url.path)
+        path = root / relative
+        if not path.resolve().is_relative_to(root) or not path.is_file():
+            raise ValueError(f'Missing or out-of-project asset: {relative}')
+        if relative not in versions:
+            digest = hashlib.sha256()
+            with path.open('rb') as source:
+                for chunk in iter(lambda: source.read(1024 * 1024), b''):
+                    digest.update(chunk)
+            versions[relative] = digest.hexdigest()[:16]
+        query = [(key, value) for key, value in parse_qsl(url.query) if key != 'v']
+        query.append(('v', versions[relative]))
+        versioned = urlunsplit(('', '', url.path, urlencode(query), url.fragment))
+        return f'{match["prefix"]}{match["quote"]}{versioned}{match["quote"]}'
+
+    return re.sub(
+        r'(?P<prefix>\b(?:src|href|poster)\s*=\s*)(?P<quote>[\"\x27])(?P<url>.*?)(?P=quote)',
+        replace, html,
+    )
+
+
 def build():
     html = (ROOT / 'index.html').read_text(encoding='utf-8')
     assets = Assets()
@@ -39,6 +71,7 @@ def build():
             raise ValueError(f'Missing or out-of-project asset: {relative}')
         if path.suffix.lower() in {'.pdf', '.docx', '.tex'} or path.name.startswith('.DS_Store'):
             raise ValueError(f'Source document or system file is not publishable: {relative}')
+    html = version_assets(html, ROOT)
     # Remove stale output only; this directory is generated by this script.
     if OUTPUT.exists():
         if OUTPUT.is_symlink():
@@ -51,6 +84,9 @@ def build():
         destination = OUTPUT / relative
         destination.parent.mkdir(parents=True, exist_ok=True)
         shutil.copyfile(ROOT / relative, destination)
+    # Keep both supported deployment paths (repository root and dist/) in sync.
+    (OUTPUT / 'index.html').write_text(html, encoding='utf-8')
+    (ROOT / 'index.html').write_text(html, encoding='utf-8')
     (OUTPUT / '.site-build').write_text('Generated website assets only.\n')
     print(f'Built {len(files)} files in dist/ ({"anonymous" if anonymous else "release"}).')
 
